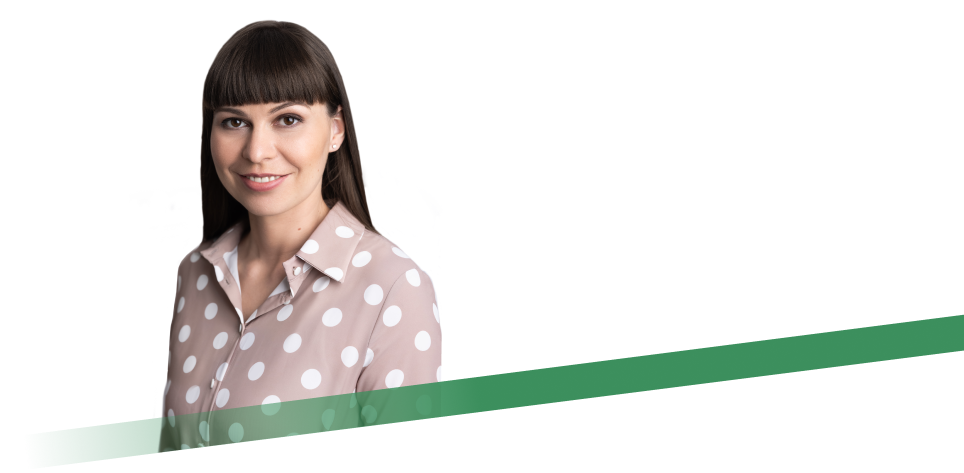
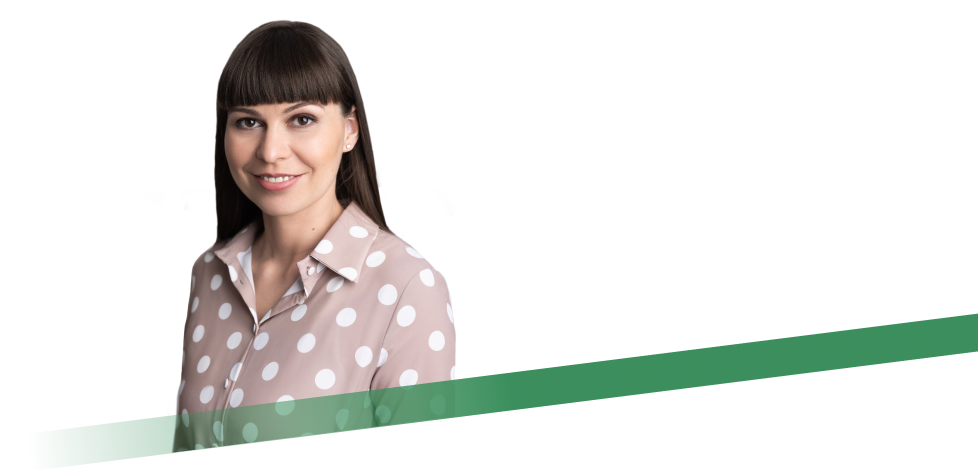
+

diff --git a/service.html b/service.html
@@ -79,30 +79,6 @@
 									</div>
 
 									<div class="item">
-										<a  href="/" class="active">Услуги и цены</a>
-									</div>
-
-									<div class="item">
-										<a href="/" class="sub_link">Разное</a>
-
-										<div class="sub_menu">
-											<div><a href="/">Этический Кодекс психолога</a></div>
-											<div><a href="/">Библиотека</a></div>
-											<div><a href="/">Статьи</a></div>
-											<div><a href="/">Притчи о жизни</a></div>
-											<div><a href="/">Блог</a></div>
-										</div>
-									</div>
-
-									<div class="item">
-										<a href="/">Контакты</a>
-									</div>
-								</nav><nav class="menu row">
-									<div class="item">
-										<a href="/">О мастерской</a>
-									</div>
-
-									<div class="item">
 										<a href="/">Услуги и цены</a>
 									</div>
 

diff --git a/css/response_1023.css b/css/response_1023.css
@@ -193,8 +193,8 @@
 
     header .menu .sub_menu a
     {
-        font-size: 20px;
-        line-height: 24px;
+        font-size: 18px;
+        line-height: 22px;
     }
 
 
@@ -801,10 +801,10 @@
     .order_form .img
     {
         right: -420px;
-        bottom: 119px;
+        bottom: 127px;
 
         width: 800px;
-        height: 393px;
+        height: 389px;
         margin-right: 0;
     }
 

diff --git a/css/styles.css b/css/styles.css
@@ -2385,12 +2385,12 @@ header .mob_socials .whatsapp_link .icon
     position: absolute;
     z-index: -1;
     right: 50%;
-    bottom: 118px;
+    bottom: 124px;
 
     display: block;
 
-    width: 964px;
-    height: 473px;
+    width: 978px;
+    height: 475px;
     margin-right: -960px;
 
     pointer-events: none;

diff --git a/css/response_1279.css b/css/response_1279.css
@@ -609,12 +609,6 @@
     }
 
 
-    .order_form .img
-    {
-        bottom: 118px;
-    }
-
-
 
     /*--------------
         Map wrap
